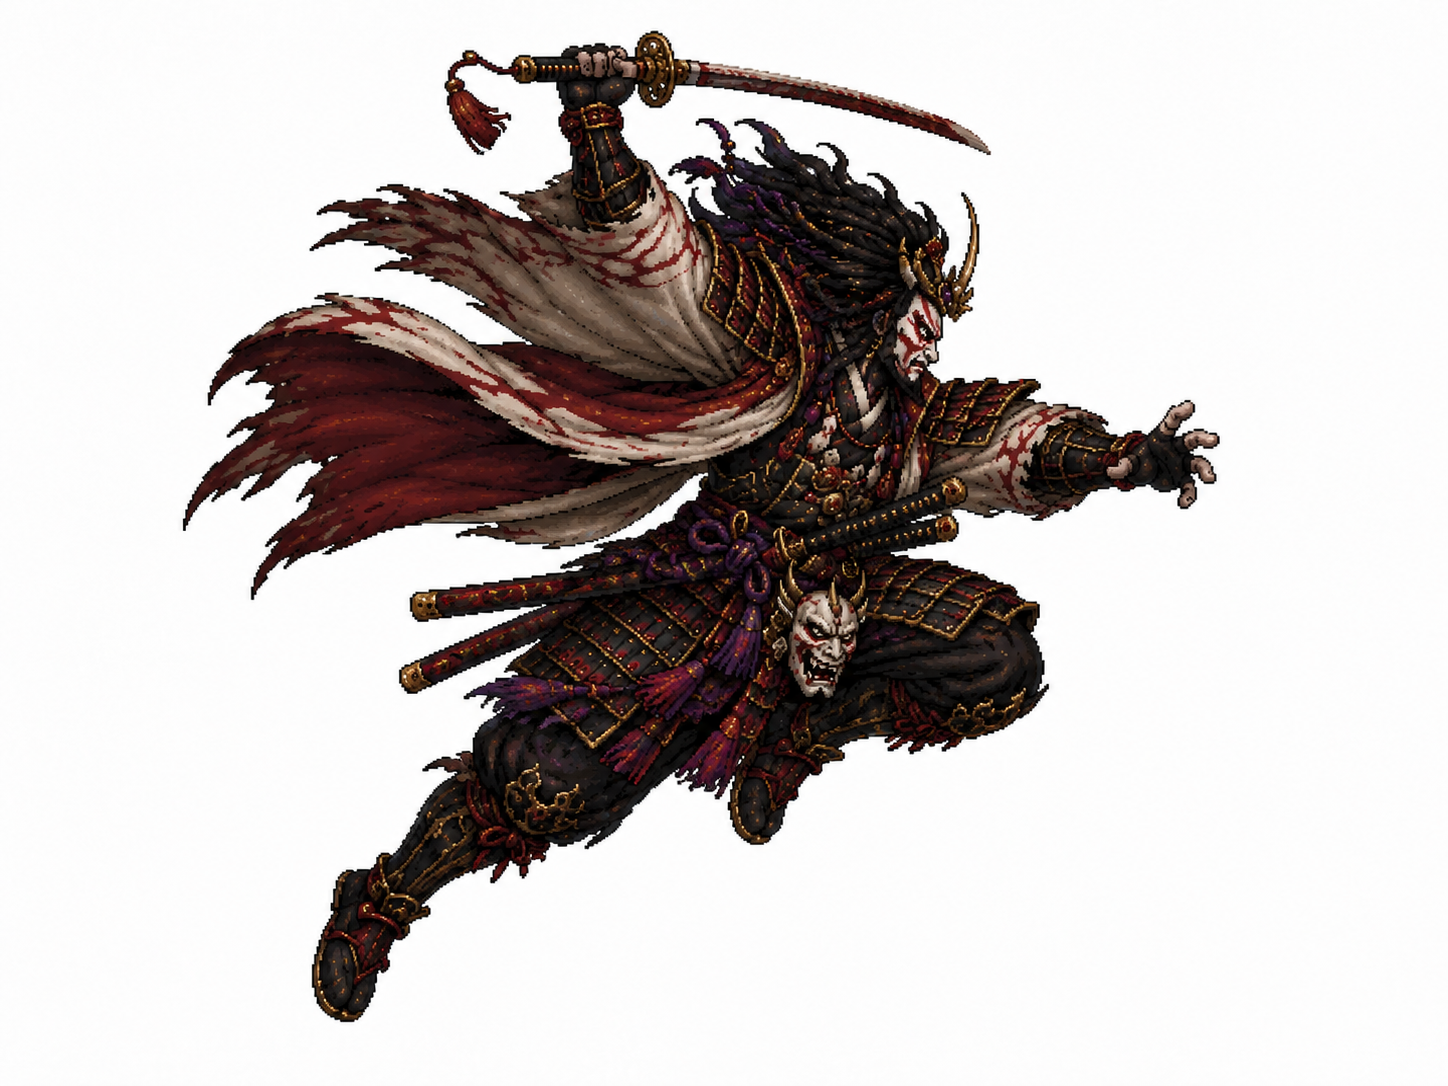
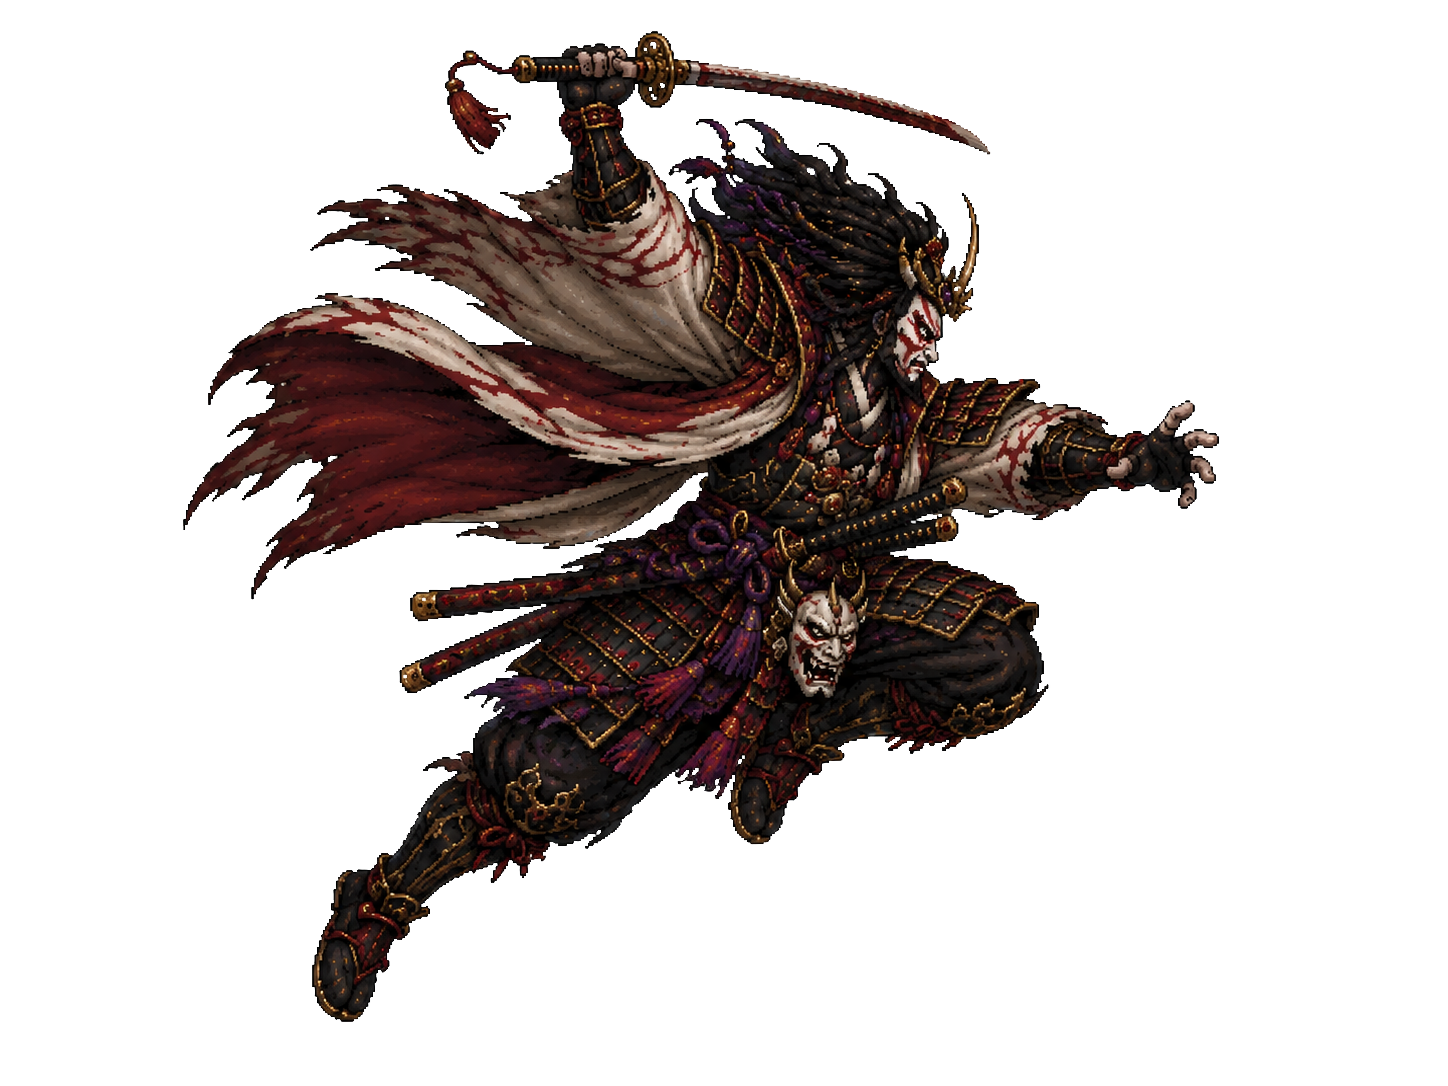
ICHIGEKI: June art pass, title sprites and itch screenshots
Captures the work that was sitting uncommitted since June — including the
changes that never made it into the old dist build.

- New/updated character sprites: idle, idle_fight, idle_fwd, crouch, jump
- Title screen now uses assets/images/*_idle_fwd rather than assets/sprites
- js/main.js animation and match-flow updates
- screenshots/ for the itch.io listing

Build artifacts (build_itch/, dist/, *.zip — 116MB) are gitignored; regenerate
by zipping the source with index.html at the zip root.

Claude-Session: https://claude.ai/code/session_01EUhpiicQDNQDBkXnUEQ8bV

diff --git a/js/main.js b/js/main.js
@@ -15,7 +15,7 @@
   const $ = id => document.getElementById(id);
 
   // ---------- assets ----------
-  const IMG = {};
+  const IMG = { p1: {}, p2: {} };
   function loadImage(src) {
     return new Promise((res, rej) => {
       const img = new Image();
@@ -25,11 +25,40 @@
     });
   }
   async function loadAssets() {
-    [IMG.bg, IMG.p1, IMG.p2] = await Promise.all([
-      loadImage('assets/images/tbfg_bg_00.png'),
-      loadImage('assets/sprites/p1_side.png'),
-      loadImage('assets/sprites/p2_side.png'),
-    ]);
+    const list = [
+      ['bg', 'assets/images/tbfg_bg_00.png'],
+      ['p1_idle', 'assets/images/tbfg_p1_idle.png'],
+      ['p1_idle_fight', 'assets/images/tbfg_p1_idle_fight.png'],
+      ['p1_idle_fwd', 'assets/images/tbfg_p1_idle_fwd.png'],
+      ['p1_block', 'assets/images/tbfg_p1_block_00.png'],
+      ['p1_blockknock', 'assets/images/tbfg_p1_blockknockback_00.png'],
+      ['p1_defeat', 'assets/images/tbfg_p1_defeated_00.png'],
+      ['p1_lunge_0', 'assets/images/tbfg_p1_forwardlunge_00.png'],
+      ['p1_lunge_1', 'assets/images/tbfg_p1_forwardlunge_01.png'],
+      ['p1_jump_0', 'assets/images/tbfg_p1_jump_00.png'],
+      ['p1_jump_1', 'assets/images/tbfg_p1_jump_01.png'],
+      ['p1_crouch_0', 'assets/images/tbfg_p1_crouch_00.png'],
+      ['p1_crouch_1', 'assets/images/tbfg_p1_crouch_01.png'],
+      ['p2_idle', 'assets/images/tbfg_p2_idle.png'],
+      ['p2_idle_fight', 'assets/images/tbfg_p2_idle_fight.png'],
+      ['p2_idle_fwd', 'assets/images/tbfg_p2_idle_fwd.png'],
+      ['p2_block', 'assets/images/tbfg_p2_block_00.png'],
+      ['p2_blockknock', 'assets/images/tbfg_p2_blockknockback_00.png'],
+      ['p2_defeat', 'assets/images/tbfg_p2_defeated_00.png'],
+      ['p2_lunge_0', 'assets/images/tbfg_p2_forwardlunge_00.png'],
+      ['p2_lunge_1', 'assets/images/tbfg_p2_forwardlunge_01.png'],
+      ['p2_jump_0', 'assets/images/tbfg_p2_jump_00.png'],
+      ['p2_jump_1', 'assets/images/tbfg_p2_jump_01.png'],
+      ['p2_crouch_0', 'assets/images/tbfg_p2_crouch_00.png'],
+      ['p2_crouch_1', 'assets/images/tbfg_p2_crouch_01.png'],
+      ];
+    const imgs = await Promise.all(list.map(item => loadImage(item[1])));
+    list.forEach((item, i) => {
+      const k = item[0];
+      if (k === 'bg') IMG.bg = imgs[i];
+      else if (k.startsWith('p1_')) IMG.p1[k.slice(3)] = imgs[i];
+      else if (k.startsWith('p2_')) IMG.p2[k.slice(3)] = imgs[i];
+    });
   }
 
   // ---------- tweens & timers (game-time, driven by rAF) ----------
@@ -67,34 +96,37 @@
   }
 
   // ---------- actors ----------
-  // x/y is the feet anchor (bottom-center). Sprites natively face left,
-  // so faceRight mirrors horizontally.
-  function makeActor(name, img, homeX, faceRight) {
+  // x/y is the feet anchor (bottom-center).
+  function makeActor(name, imgs, homeX, faceRight, nativeFaceRight) {
     return {
-      name, img, homeX, faceRight,
+      name, imgs, homeX, faceRight, nativeFaceRight: !!nativeFaceRight,
       x: homeX, y: GROUND,
       sx: 1, sy: 1, rot: 0, alpha: 1,
       idle: true, idlePhase: Math.random() * 6,
+      state: 'idle',
     };
   }
   let A1 = null, A2 = null;
 
   const ghosts = []; // lunge afterimages
   function spawnGhost(a) {
-    ghosts.push({ img: a.img, x: a.x, y: a.y, faceRight: a.faceRight, sx: a.sx, sy: a.sy, rot: a.rot, alpha: 0.4 });
+    const img = a.imgs[a.state] || a.imgs.idle;
+    ghosts.push({ img, x: a.x, y: a.y, faceRight: a.faceRight, nativeFaceRight: a.nativeFaceRight, sx: a.sx, sy: a.sy, rot: a.rot, alpha: 0.4 });
   }
 
   function drawActor(a, t) {
     if (a.alpha <= 0) return;
-    const s = CHAR_H / a.img.height;
+    const img = a.img || a.imgs[a.state] || a.imgs.idle;
+    const s = CHAR_H / img.height;
     let sy = a.sy;
     if (a.idle) sy *= 1 + Math.sin(t / 480 + a.idlePhase) * 0.012;
+    const flip = a.faceRight === a.nativeFaceRight ? 1 : -1;
     ctx.save();
     ctx.globalAlpha = a.alpha;
     ctx.translate(a.x, a.y);
     ctx.rotate(a.rot);
-    ctx.scale((a.faceRight ? -1 : 1) * s * a.sx, s * sy);
-    ctx.drawImage(a.img, -a.img.width / 2, -a.img.height);
+    ctx.scale(flip * s * a.sx, s * sy);
+    ctx.drawImage(img, -img.width / 2, -img.height);
     ctx.restore();
   }
 
@@ -218,8 +250,8 @@
 
   async function startMatch() {
     match = Logic.newMatch(2, 1);
-    A1 = makeActor(NAMES[0], IMG.p1, P1_HOME, true);
-    A2 = makeActor(NAMES[1], IMG.p2, P2_HOME, false);
+    A1 = makeActor(NAMES[0], IMG.p1, P1_HOME, true, true);
+    A2 = makeActor(NAMES[1], IMG.p2, P2_HOME, false, false);
     ghosts.length = 0;
     reveal = null;
     titleScreen.classList.add('hidden');
@@ -278,13 +310,14 @@
   }
 
   async function playRound(o) {
+    A1.state = A2.state = 'idle_fight';
     await wait(300);
     reveal = { l: pickLabel(o.p1), r: pickLabel(o.p2) };
     FX.whoosh();
     const T = 640;
     await Promise.all([
-      attackAnim(A1, o.p1.move, 1, T),
-      attackAnim(A2, o.p2.move, -1, T),
+      attackAnim(A1, o.p1.move, 1, T, o.p1.block),
+      attackAnim(A2, o.p2.move, -1, T, o.p2.block),
     ]);
 
     // the clash
@@ -299,6 +332,7 @@
       const winner = o.winner === 1 ? A1 : A2;
       const loser = o.winner === 1 ? A2 : A1;
       const dir = o.winner === 1 ? 1 : -1; // loser is knocked toward their own side
+      loser.state = 'defeat';
       FX.slash();
       await Promise.all([
         tween(loser, { x: loser.x + dir * 190, rot: dir * 1.45, y: GROUND, sy: 1 }, 480, easeOut),
@@ -313,6 +347,8 @@
         await showBanner(winner.name + ' STRIKES TRUE', 'round to ' + winner.name + wastedNote(o), 1400);
       }
     } else if (o.saved) {
+      const saver = o.saved === 1 ? A1 : A2;
+      saver.state = 'blockknock';
       FX.clang();
       FX.sparks(CLASH_X, clashY, 42, '#ffe9a8');
       FX.shake(8, 220);
@@ -329,28 +365,35 @@
   }
 
   // All three attacks take exactly T ms so both fighters meet mid-screen.
-  async function attackAnim(a, move, dir, T) {
+  async function attackAnim(a, move, dir, T, isBlocking) {
     a.idle = false;
     const target = CLASH_X - dir * 80;
     if (move === 'jump') {
+      a.state = isBlocking ? 'block' : 'jump_0';
       await tween(a, { sy: 0.82 }, 120, easeOut); // crouch wind-up
+      a.state = isBlocking ? 'block' : 'jump_0';
       const rise = (T - 120) * 0.55, fall = (T - 120) * 0.45;
       await Promise.all([
         tween(a, { y: GROUND - 215, sy: 1.04 }, rise, easeOut)
-          .then(() => tween(a, { y: GROUND - 90 }, fall, easeIn)),
+          .then(() => { a.state = isBlocking ? 'block' : 'jump_1'; return tween(a, { y: GROUND - 90 }, fall, easeIn); }),
         tween(a, { x: target, rot: dir * 0.22 }, T - 120, linear),
       ]);
     } else if (move === 'lunge') {
+      a.state = isBlocking ? 'block' : 'lunge_0';
       await tween(a, { x: a.x - dir * 35, rot: -dir * 0.10 }, 200, easeOut); // lean back
+      a.state = isBlocking ? 'block' : 'lunge_1';
       const trail = (async () => {
         for (let i = 0; i < 6; i++) { spawnGhost(a); await wait(38); }
       })();
       await tween(a, { x: target + dir * 10, rot: dir * 0.16 }, T - 320, easeOut);
       await trail;
+      a.state = isBlocking ? 'block' : 'lunge_0';
       await wait(120);
     } else { // crouch
-      await tween(a, { sy: 0.60 }, 170, easeOut);
+      a.state = isBlocking ? 'block' : 'crouch_0';
+      await tween(a, { sy: 1.0 }, 170, easeOut); // Reset any scaling
       await tween(a, { x: CLASH_X - dir * 130 }, T - 290, easeInOut);
+      a.state = isBlocking ? 'block' : 'crouch_1';
       await wait(120);
     }
   }
@@ -359,11 +402,13 @@
     const loser = o.winner === 1 ? A2 : A1;
     await wait(200);
     await tween(loser, { rot: 0 }, 380, easeOut); // back on their feet
+    loser.state = 'idle';
     await returnHome();
   }
 
   async function returnHome() {
     A1.idle = A2.idle = false;
+    A1.state = A2.state = 'idle';
     await Promise.all([
       tween(A1, { x: P1_HOME, y: GROUND, rot: 0, sy: 1, sx: 1 }, 480, easeInOut),
       tween(A2, { x: P2_HOME, y: GROUND, rot: 0, sy: 1, sx: 1 }, 480, easeInOut),
@@ -378,7 +423,7 @@
     $('end-title').textContent = playerWon ? 'VICTORY' : 'DEFEAT';
     $('end-jp').textContent = playerWon ? '勝利' : '敗北';
     $('end-sub').textContent = NAMES[match.winner - 1] + ' stands alone on the field';
-    $('end-portrait').src = playerWon ? 'assets/sprites/p1_front.png' : 'assets/sprites/p2_front.png';
+    $('end-portrait').src = playerWon ? 'assets/images/tbfg_p1_idle_fwd.png' : 'assets/images/tbfg_p2_idle_fwd.png';
     endScreen.classList.remove('hidden');
   }
 

diff --git a/index.html b/index.html
@@ -44,8 +44,8 @@
   </div>
 
   <div id="title-screen">
-    <img class="title-char left" src="assets/sprites/p1_front.png" alt="Akaoni">
-    <img class="title-char right" src="assets/sprites/p2_front.png" alt="Kurogane">
+    <img class="title-char left" src="assets/images/tbfg_p1_idle_fwd.png" alt="Akaoni">
+    <img class="title-char right" src="assets/images/tbfg_p2_idle_fwd.png" alt="Kurogane">
     <div class="title-inner">
       <h1>ICHIGEKI</h1>
       <div class="jp">一撃 · ONE STRIKE</div>
